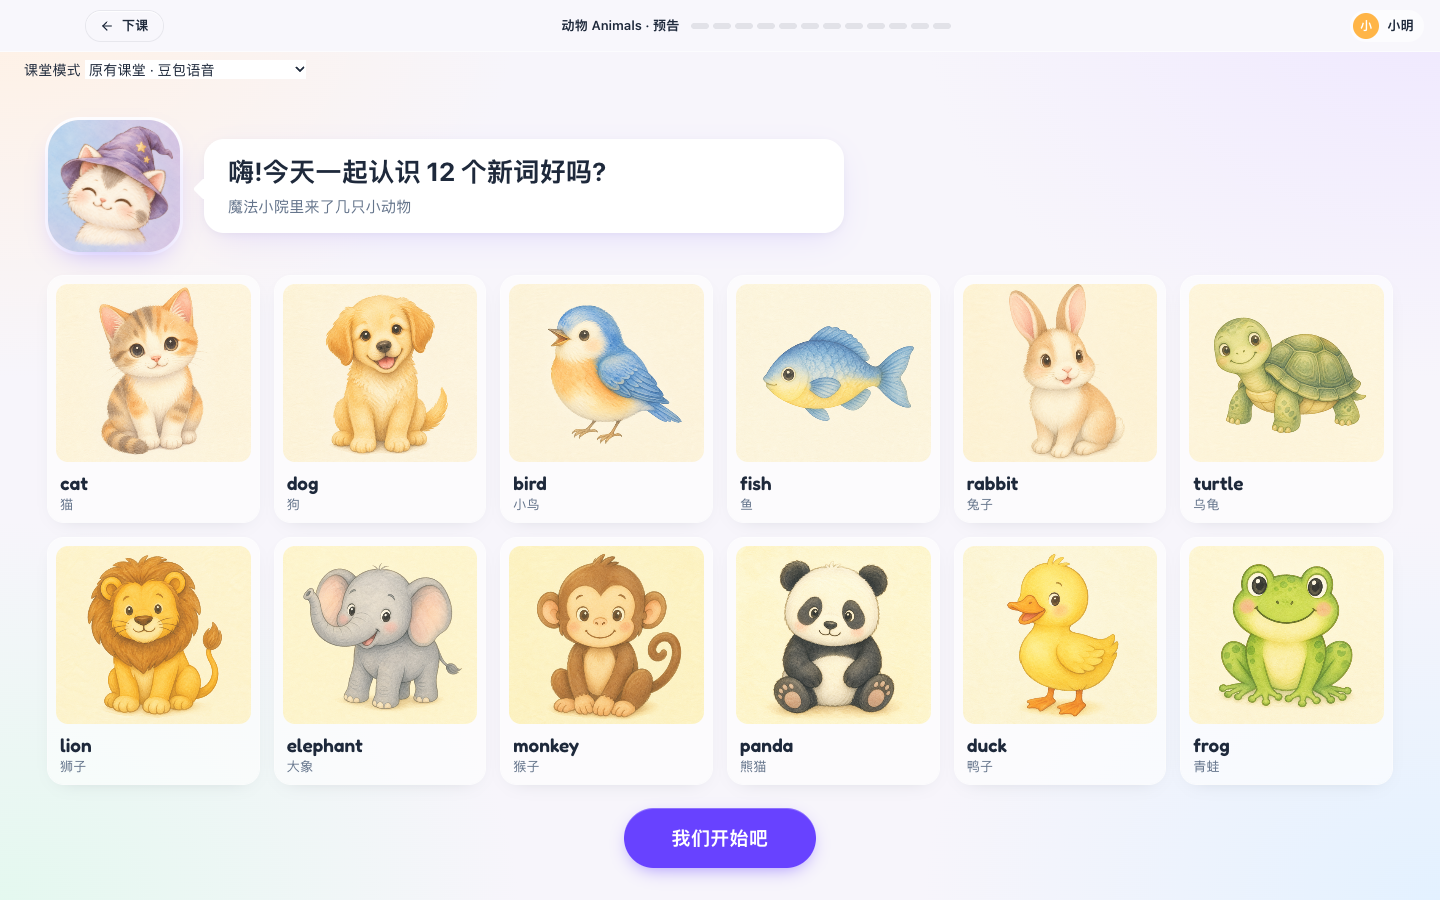
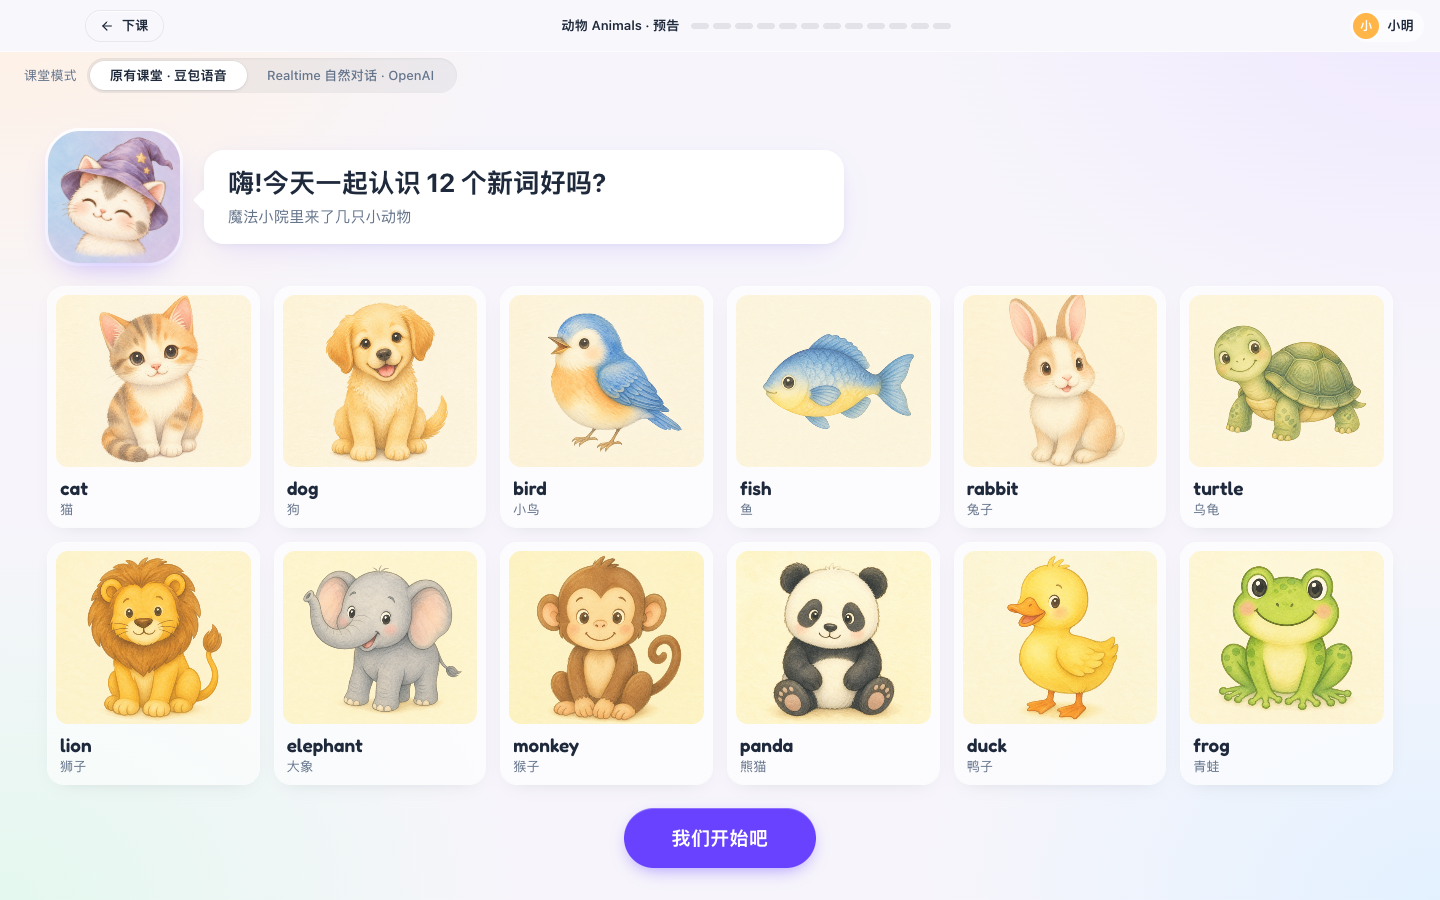
feat(ui): pick the classroom mode with a segmented control
- Replace the native select on the lesson preview with a two-option segmented control (radiogroup) that reuses the main navigation's shell-segments style; the choice is still stored in eduagent.classroomMode.
- Realtime browser smoke selects the mode by radio role; component test covers choosing and remembering the mode.
- Recapture the lesson preview screenshot; architecture notes the control.

diff --git a/src/components/lesson/PhasedLessonView.tsx b/src/components/lesson/PhasedLessonView.tsx
@@ -27,6 +27,10 @@ interface PhasedLessonViewProps {
   onStarted?: () => void;
 }
 
+const CLASSROOM_MODES = [
+  { id: 'legacy', label: '原有课堂 · 豆包语音' },
+  { id: 'realtime', label: 'Realtime 自然对话 · OpenAI' },
+] as const;
 
 export function PhasedLessonView({ course, learnerId, fresh, onStarted }: PhasedLessonViewProps) {
   const router = useRouter();
@@ -166,12 +170,15 @@ export function PhasedLessonView({ course, learnerId, fresh, onStarted }: Phased
         <div className="p2-error"><Banner action={llmFailureNeedsSettings(lessonError.code) ? <a href={mode === 'realtime' ? '/settings#realtime' : '/settings'} className="ui-button ui-button-glass ui-button-sm">去设置</a> : mode === 'realtime' && started ? lessonError.code === 'SESSION_EXPIRED' ? <Button size="sm" onClick={handleRestart}>重新进入课堂</Button> : <Button size="sm" onClick={() => { setLessonError(null); void v2Ref.current?.retryLastTurn?.(); }}>重试这一步</Button> : undefined}>{lessonError.message}</Banner></div>
       )}
 
-      <div className="px-6 py-2 text-sm">
-        {!started ? <label>课堂模式 <select aria-label="课堂模式" value={mode} onChange={(event) => {
-          const next = event.target.value === 'realtime' ? 'realtime' : 'legacy';
-          setMode(next); try { localStorage.setItem('eduagent.classroomMode', next); } catch {}
-        }}><option value="legacy">原有课堂 · 豆包语音</option><option value="realtime">Realtime 自然对话课堂 · OpenAI</option></select></label>
-          : <span>{mode === 'realtime' ? 'Realtime 自然对话课堂 · OpenAI（直接说话，可随时插话）' : '原有课堂 · 豆包语音'}</span>}
+      <div className="p2-mode">
+        {!started ? <>
+          <span id="p2-mode-label">课堂模式</span>
+          <div className="shell-segments" role="radiogroup" aria-labelledby="p2-mode-label">
+            {CLASSROOM_MODES.map(({ id, label }) => <button key={id} type="button" role="radio" aria-checked={mode === id} onClick={() => {
+              setMode(id); try { localStorage.setItem('eduagent.classroomMode', id); } catch {}
+            }}>{label}</button>)}
+          </div>
+        </> : <span>{mode === 'realtime' ? 'Realtime 自然对话课堂 · OpenAI（直接说话，可随时插话）' : '原有课堂 · 豆包语音'}</span>}
       </div>
       <div className={`p2-content ${started && phase !== 'intro' && phase !== 'done' ? 'p2-lesson' : ''}`}>
         {transitionRetry && (

diff --git a/src/app/globals.css b/src/app/globals.css
@@ -47,8 +47,9 @@ a[href^='http'] { cursor: pointer; }
 .shell-toolbar { display: grid; grid-template-columns: 1fr auto 1fr; align-items: center; padding: 0 16px 0 86px; height: 52px; border-bottom: 1px solid rgba(255,255,255,.6); background: rgba(255,255,255,.5); backdrop-filter: blur(28px) saturate(180%); position: relative; z-index: 50; -webkit-app-region: drag; }
 .shell-toolbar button, .shell-toolbar a, .shell-learner-menu { -webkit-app-region: no-drag; }
 .shell-segments { display: flex; padding: 3px; border-radius: 999px; background: rgba(30,41,59,.06); box-shadow: inset 0 1px 2px rgba(30,41,59,.06); -webkit-app-region: no-drag; }
-.shell-segments a { padding: 5px 20px; border-radius: 999px; font-size: 13px; font-weight: 500; line-height: 1.45; color: var(--ui-secondary); white-space: nowrap; }
-.shell-segments a[aria-current='page'] { background: #fff; color: var(--ui-ink); font-weight: 600; box-shadow: 0 1px 3px rgba(30,41,59,.12),0 0 0 .5px rgba(30,41,59,.06); }
+.shell-segments a, .shell-segments button { padding: 5px 20px; border-radius: 999px; font-size: 13px; font-weight: 500; line-height: 1.45; color: var(--ui-secondary); white-space: nowrap; }
+.shell-segments button { cursor: pointer; }
+.shell-segments a[aria-current='page'], .shell-segments button[aria-checked='true'] { background: #fff; color: var(--ui-ink); font-weight: 600; box-shadow: 0 1px 3px rgba(30,41,59,.12),0 0 0 .5px rgba(30,41,59,.06); }
 .shell-learner { position: relative; justify-self: end; }
 .shell-who { display: flex; align-items: center; gap: 8px; padding: 3px 10px 3px 3px; border-radius: 999px; background: rgba(255,255,255,.6); box-shadow: 0 0 0 .5px rgba(30,41,59,.08); font-size: 13px; font-weight: 600; }
 .shell-avatar { width: 26px; height: 26px; border-radius: 50%; display: grid; place-items: center; background: #FFB547; color: #fff; font-size: 12px; }

diff --git a/src/components/lesson/PhasedLessonView.test.tsx b/src/components/lesson/PhasedLessonView.test.tsx
@@ -152,6 +152,20 @@ describe('PhasedLessonView', () => {
     expect(screen.getByRole('button', { name: /我们开始吧/ })).toBeTruthy();
   });
 
+  it('chooses the classroom mode with a two-option segmented control and remembers it', () => {
+    const values = new Map<string, string>();
+    vi.stubGlobal('localStorage', { getItem: (key: string) => values.get(key) ?? null, setItem: (key: string, value: string) => values.set(key, value) });
+    render(<PhasedLessonView learnerId="test-learner" course={foodCourse} />);
+    const group = screen.getByRole('radiogroup', { name: '课堂模式' });
+    const [legacy, realtime] = within(group).getAllByRole('radio');
+    expect(legacy.getAttribute('aria-checked')).toBe('true');
+    fireEvent.click(realtime);
+    expect(realtime.getAttribute('aria-checked')).toBe('true');
+    expect(legacy.getAttribute('aria-checked')).toBe('false');
+    expect(values.get('eduagent.classroomMode')).toBe('realtime');
+    vi.unstubAllGlobals();
+  });
+
   it('moves from intro to interactive after the opening greeting finishes', async () => {
     render(<PhasedLessonView learnerId="test-learner" course={foodCourse} />);
 

diff --git a/src/components/lesson/lesson.css b/src/components/lesson/lesson.css
@@ -7,6 +7,7 @@
 .p2-dots i.p2-complete { background:#2DD4BF; }
 .p2-dots i.p2-current { background:#6842FF; width:28px; }
 .p2-who { display:flex; align-items:center; gap:8px; padding:3px 10px 3px 3px; border-radius:999px; background:rgba(255,255,255,.6); font-size:13px; font-weight:600; -webkit-app-region:no-drag; }
+.p2-mode { display:flex; align-items:center; gap:10px; min-height:44px; padding:6px 24px; font-size:13px; color:var(--ui-secondary); }
 .p2-content { min-height:0; position:relative; }
 .p2-lesson { display:grid; grid-template-columns:minmax(0,1fr) clamp(260px,21vw,304px); }
 .p2-stage { position:relative; display:grid; grid-template-rows:minmax(0,1fr) auto; padding:24px 32px 0; min-height:0; min-width:0; height:100%; }

diff --git a/scripts/realtime-browser-smoke.ts b/scripts/realtime-browser-smoke.ts
@@ -109,7 +109,7 @@ async function main() {
       if (!desktop || !String(error).includes('ERR_ABORTED')) throw error;
       await page.waitForTimeout(1000); await page.goto(`${base}/lesson/${course.id}?learnerId=${learner.id}`);
     });
-    await page.getByLabel('课堂模式').selectOption('realtime');
+    await page.getByRole('radio', { name: /Realtime/ }).click();
     await page.getByRole('button', { name: '我们开始吧' }).click();
     const dock = page.getByRole('status', { name: '对话状态' });
     await dock.waitFor({ timeout: 60000 });
